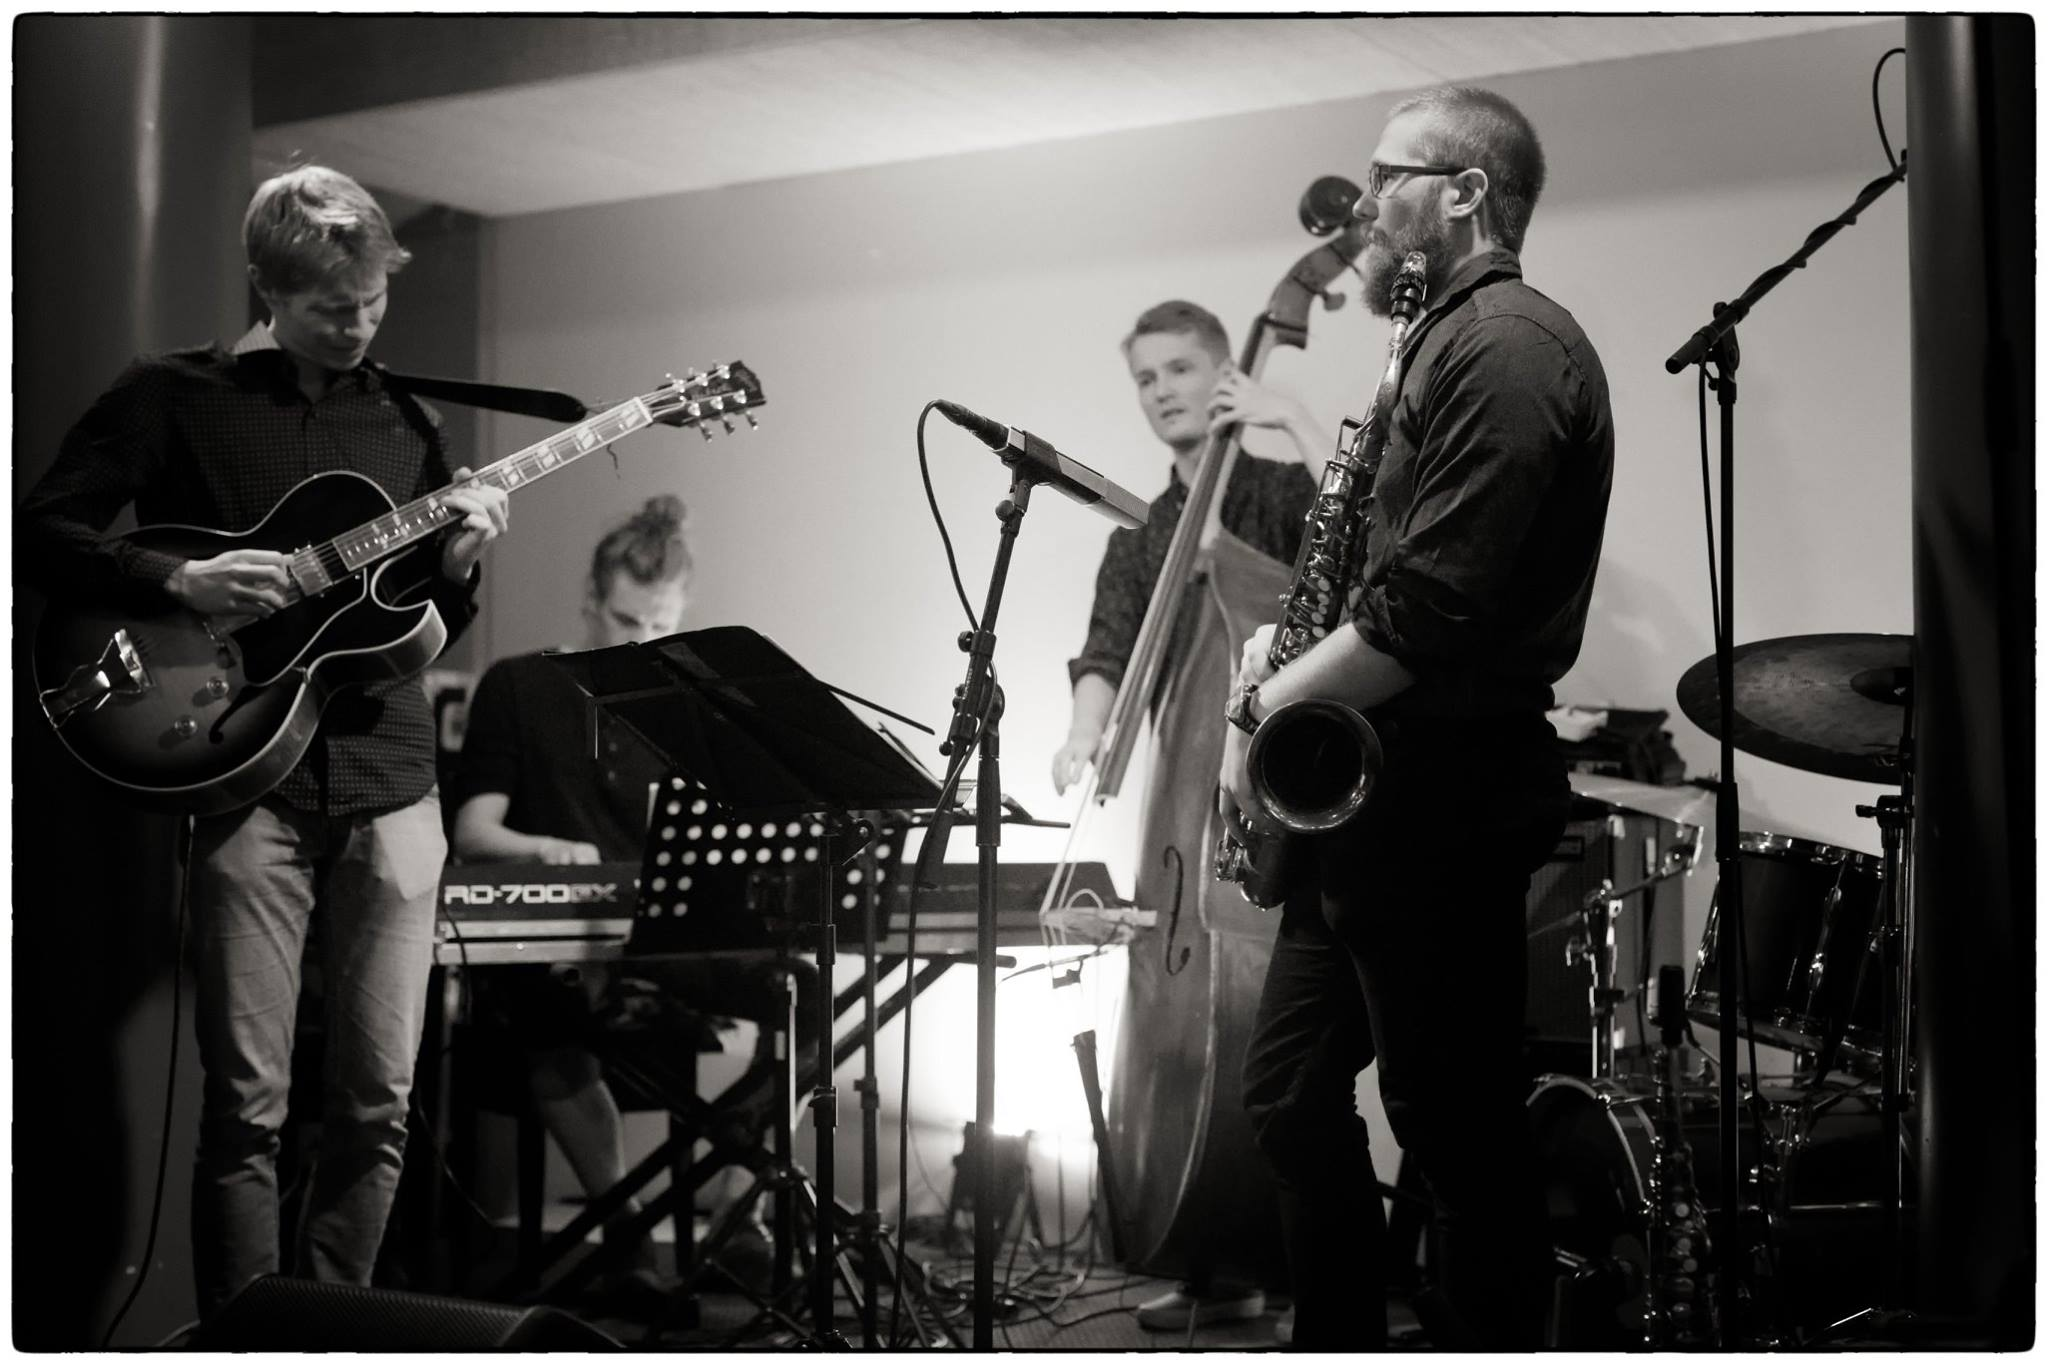
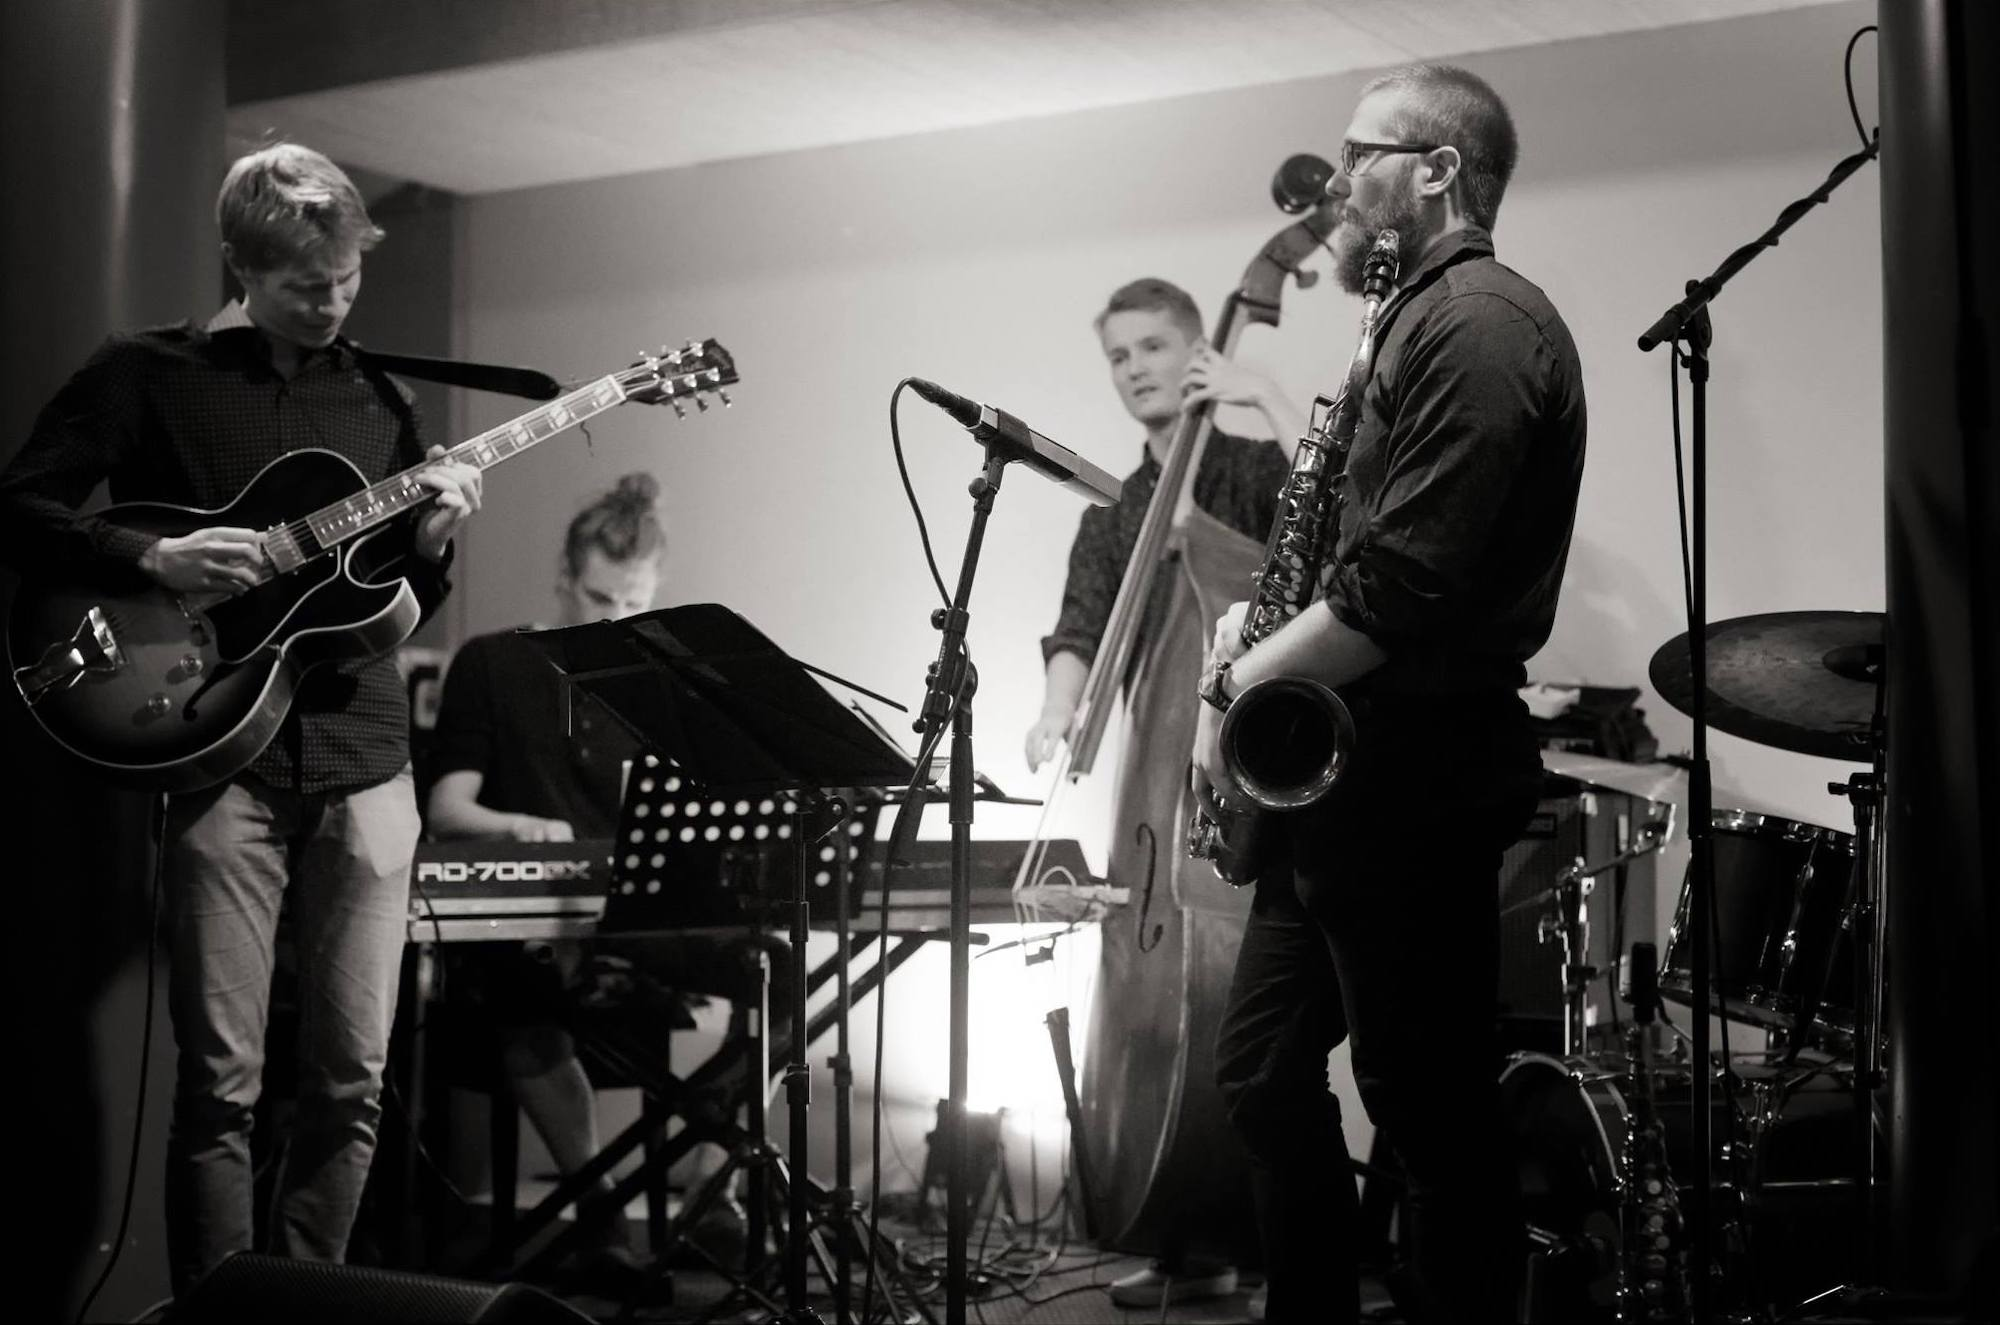
fix pictures

diff --git a/index.html b/index.html
@@ -33,13 +33,13 @@
           <a class="nav-item nav-link" href="#gigs">Gigs</a>
         </div>
       </div>
-      <div class="mr-auto">
+      <div class="mr-auto d-none d-lg-inline">
         <a href="https://www.facebook.com/secondwindquintet/" target="_blank" rel="noopener noreferrer"><i
-            class="fab fa-facebook-f d-none d-lg-inline mr-2 text-primary"></i></a>
+            class="fab fa-facebook-f mr-2 text-primary"></i></a>
         <a href="https://soundcloud.com/second-wind-quintet" target="_blank" rel="noopener noreferrer"><i
-            class="fab fa-soundcloud d-none d-lg-inline mr-2 text-orange"></i></a>
+            class="fab fa-soundcloud mr-2 text-orange"></i></a>
         <a href="https://www.youtube.com/watch?v=WivYCWlnD8M" target="_blank" rel="noopener noreferrer"><i
-            class="fab fa-youtube d-none d-lg-inline mr-2 text-danger"></i></a>
+            class="fab fa-youtube mr-2 text-danger"></i></a>
       </div>
     </nav>
 
@@ -62,49 +62,71 @@
               class="fab fa-youtube text-danger"></i></a>
       </div>
     </div>
+    <div class="row">
+      <div class="col-12 text-center ">
+        <h5>Based in Helsinki, Second Wind Quintet is an instrumental group that plays original music influnced by jazz,
+          folk and cinematic music.</h5>
+        <h5 class="mt-5 mb-3">Debut album release: February 2020</h5>
+      </div>
+    </div>
 
     <div class="row header-bg header-bio align-items-center half-page" id="bio">
-      <div class="h-100 w-100 dimmer d-flex justify-content-center align-content-center">
+      <div class="col-12 h-100 w-100 dimmer d-flex justify-content-center align-content-center">
         <div class="my-auto">
-          <h1 class="font-weight-bold slide-left text-light">Bio</h1>
+          <h1 class="font-weight-bold slide-left text-light">About</h1>
           <div class="mx-auto header-bar bg-light slide-left delay-m-05"></div>
         </div>
       </div>
     </div>
+    <div class="row">
+      <div class="col-sm-6">
+        <p class="mt-2">
+          Second Wind Quintet was created in 2015 with shared interest towards jazz and improvised music. The music is
+          heavily influenced by great musicians such as Brian Blade, Pat metheny, Aaron Parks just to name a few. It
+          draws inspiration also from cinematic music, such as the work of James Horner, but most importantly leaves
+          space for individual musicians to fill music with their own creativity.
+        </p>
+        <p>
+          Second Wind Quintets music has been heard around Finland, mainly around the capital area.
+        </p>
+      </div>
+    </div>
 
     <div class="row header-bg header-gallery align-items-center half-page" id="gallery">
-      <div class="h-100 w-100 dimmer d-flex justify-content-center align-content-center">
+      <div class="col-12 h-100 w-100 dimmer d-flex justify-content-center align-content-center">
         <div class="my-auto">
           <h1 class="font-weight-bold slide-left text-light">gallery</h1>
           <div class="mx-auto header-bar bg-light slide-left delay-m-05"></div>
         </div>
       </div>
     </div>
-
     <div class="row header-bg header-gigs align-items-center half-page" id="gigs">
-      <div class="h-100 w-100 dimmer d-flex justify-content-center align-content-center">
-        <div class="my-auto">
+      <div class="col-12 h-100 w-100 dimmer d-flex align-content-center">
+        <div class="my-auto ml-5">
           <h1 class="font-weight-bold slide-left text-light">gigs</h1>
           <div class="mx-auto header-bar bg-light slide-left delay-m-05"></div>
         </div>
       </div>
     </div>
+  </div>
 
 
 
-    <div class="lol"></div>
-    <!-- Scripts -->
-    <script src="https://code.jquery.com/jquery-3.3.1.slim.min.js"
-      integrity="sha384-q8i/X+965DzO0rT7abK41JStQIAqVgRVzpbzo5smXKp4YfRvH+8abtTE1Pi6jizo"
-      crossorigin="anonymous"></script>
-    <script src="https://cdnjs.cloudflare.com/ajax/libs/popper.js/1.14.7/umd/popper.min.js"
-      integrity="sha384-UO2eT0CpHqdSJQ6hJty5KVphtPhzWj9WO1clHTMGa3JDZwrnQq4sF86dIHNDz0W1"
-      crossorigin="anonymous"></script>
-    <script src="https://stackpath.bootstrapcdn.com/bootstrap/4.3.1/js/bootstrap.min.js"
-      integrity="sha384-JjSmVgyd0p3pXB1rRibZUAYoIIy6OrQ6VrjIEaFf/nJGzIxFDsf4x0xIM+B07jRM"
-      crossorigin="anonymous"></script>
-    <script src="./index.js"></script>
-    <script src='./scrollreveal.js'></script>
+
+
+  <!-- <div class="lol"></div> -->
+  <!-- Scripts -->
+  <script src="https://code.jquery.com/jquery-3.3.1.slim.min.js"
+    integrity="sha384-q8i/X+965DzO0rT7abK41JStQIAqVgRVzpbzo5smXKp4YfRvH+8abtTE1Pi6jizo"
+    crossorigin="anonymous"></script>
+  <script src="https://cdnjs.cloudflare.com/ajax/libs/popper.js/1.14.7/umd/popper.min.js"
+    integrity="sha384-UO2eT0CpHqdSJQ6hJty5KVphtPhzWj9WO1clHTMGa3JDZwrnQq4sF86dIHNDz0W1"
+    crossorigin="anonymous"></script>
+  <script src="https://stackpath.bootstrapcdn.com/bootstrap/4.3.1/js/bootstrap.min.js"
+    integrity="sha384-JjSmVgyd0p3pXB1rRibZUAYoIIy6OrQ6VrjIEaFf/nJGzIxFDsf4x0xIM+B07jRM"
+    crossorigin="anonymous"></script>
+  <script src="./index.js"></script>
+  <script src='./scrollreveal.js'></script>
   </div>
 </body>
 

diff --git a/styles.css b/styles.css
@@ -61,7 +61,6 @@ margin-bottom: 50px;
 .header-bg {
   min-height: 100%;
   background-attachment: scroll;
-  background-size: 102%;
   background-position: center center;
   background-repeat: no-repeat;
 }
@@ -73,22 +72,29 @@ margin-bottom: 50px;
 
 .header-gallery {
   background-image: url("./assets/imgs/SWQ_tenho_kasper.jpg"); 
-  background-size: 100%;
+  background-size: 104%;
+  background-position: center 10%;
 }
 
 .header-gigs {
   background-image: url("./assets/imgs/SWQ_ilkka_tenho_2.jpg"); 
-  background-size: 100%;
+  background-size: 105%;
+  background-position: center 20%;
 }
 
 .dimmer {
   background-color: rgba(1, 0, 0, 0.2);
 }
 
+.carousel-size {
+  max-height: 50vh;
+  overflow: hidden;
+}
+
 /* The hero image */
 .hero-image {
   /* Use "linear-gradient" to add a darken background effect to the image (photographer.jpg). This will make the text easier to read */
-  background-image: linear-gradient(rgba(0, 0, 0, 0.4), rgba(0, 0, 0, 0.0)), url("./assets/imgs/SWQ_v2.jpg");
+  background-image: linear-gradient(rgba(0, 0, 0, 0.4) 10%, rgba(0, 0, 0, 0.0) 90%, rgba(255, 255, 255, 1) 95%), url("./assets/imgs/SWQ_v2.jpg");
   /* Set a specific height */
   height: 50vh;
 
